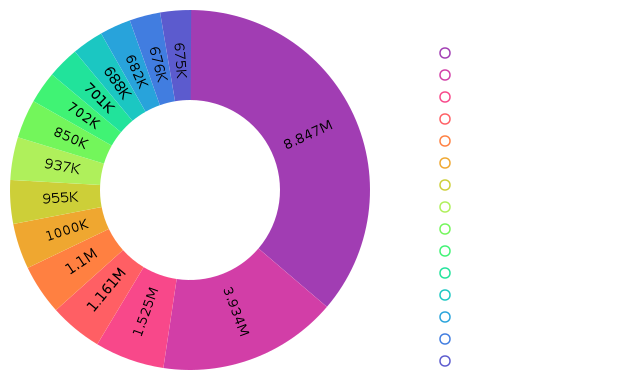
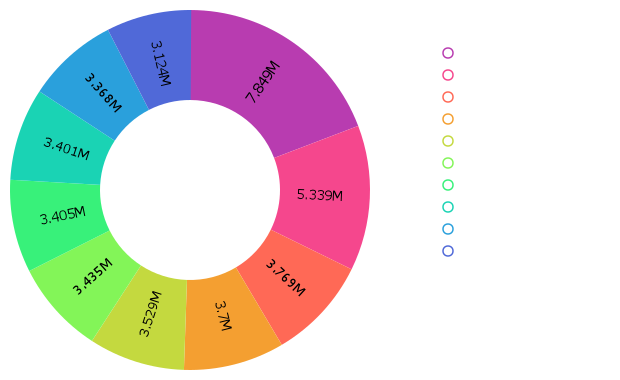
fix max to pull from hiscores as well

diff --git a/Model/max.js b/Model/max.js
@@ -49,6 +49,7 @@ async function getUserData(user) {
 	return res;
 }
 
+
 async function getUserPNG(user) {
 	var r = request(`http://secure.runescape.com/m=avatar-rs/${user}/chat.png`, (e, response) => {
 	});
@@ -93,16 +94,37 @@ async function listSkills(user) {
 	return skills;
 }
 
+// this extrapolates the raw skill data of atk, str, and so on from a client query to runescape's runemetric lite endpoint.
+async function extractSkillData(name) { 
+    var raw = await listSkills(name).catch(function (rej) {
+        return {};
+    });
+    var skillData = {};
+    if(raw["Ranged"] != null) {
+        for(var skill in raw) {
+            skillData[skill] = raw[skill].xp/10;
+        }
+    } else {
+        // runemetric profile is not public
+        raw = await getHiscoreData(name).catch(function (rej) {
+            return {};
+        });
+        for(var skill in raw) {
+            skillData[skill] = parseInt(raw[skill].exp, 10);;
+        }
+    }
+    return skillData;
+}
 
 /**
  * Calculates experience remianing for a player to max in runescape 3
  * @param {String} user name of the user to calculate
  */
 async function calcExpToMax(user) {
-	let skills = await listSkills(user);
+	let skills = await extractSkillData(user);
 	var expRemaining = 0;
 	for(var skill in skills) {
-		let exp = skills[skill].xp/10;
+		let exp = skills[skill];
 		if(skill == "Invention") {
 			if(exp < elite_exp_cap) {
 				expRemaining += elite_exp_cap - exp;

diff --git a/Model/database.js b/Model/database.js
@@ -493,6 +493,17 @@ async function duplicateTable(dupeName = 'daily') {
     close_connection();
 }
 
+async function duplicateTable2(dupeName = 'weekly') {
+    isCon = await init_connection();
+    if(!isCon) return null;
+    
+    await query_db(`DROP TABLE \`${dupeName}\``);
+    await query_db(`CREATE TABLE \`${dupeName}\` LIKE \`daily\``)
+    await query_db(`INSERT \`${dupeName}\` SELECT * FROM \`daily\``); // drop table to make sure it doesn't already exist
+
+    close_connection();
+}
+
 // TEST CASES
 // really just for my sanity not really much in the way of testing
 // will come back to these
